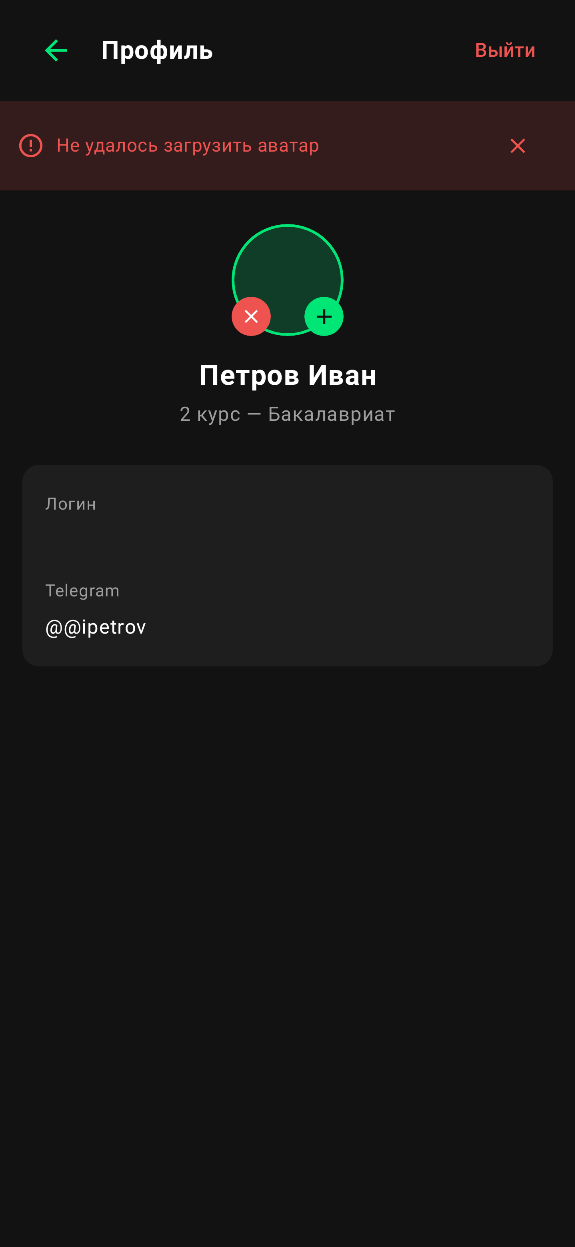
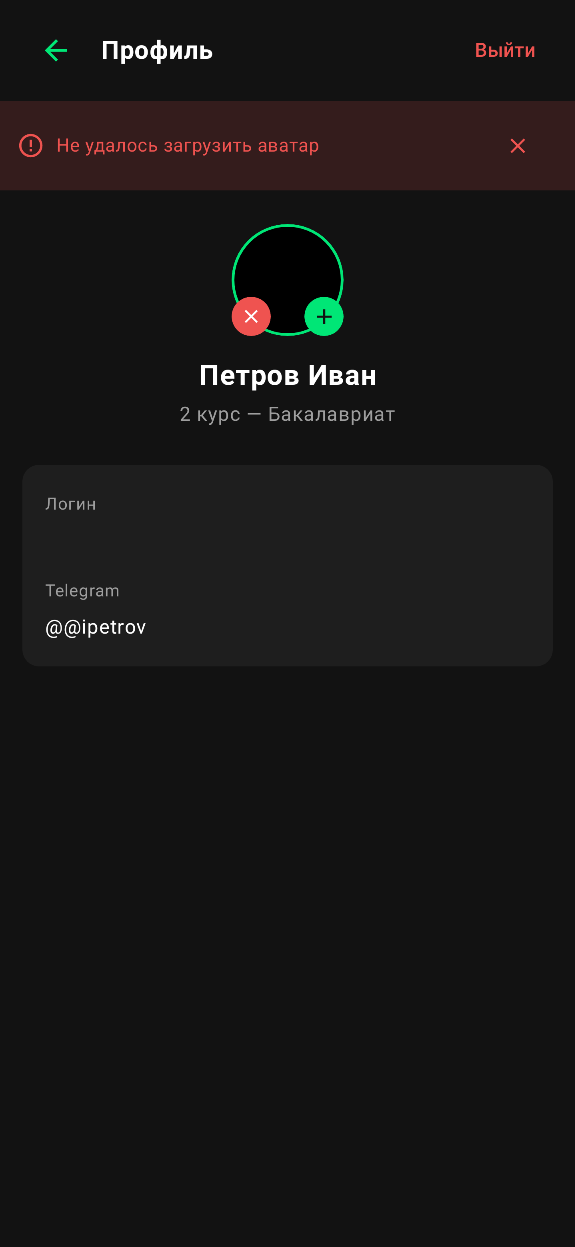
finish refactor

Changed region(s): [[0.3843, 0.1828, 0.5913, 0.2743]]

diff --git a/androidApp/src/test/java/io/github/kroune/cumobile/TestApplication.kt b/androidApp/src/test/java/io/github/kroune/cumobile/TestApplication.kt
@@ -1,5 +1,24 @@
 package io.github.kroune.cumobile
 
 import android.app.Application
+import coil3.ColorImage
+import coil3.ImageLoader
+import coil3.SingletonImageLoader
+import coil3.test.FakeImageLoaderEngine
 
-class TestApplication : Application()
+class TestApplication : Application() {
+    @OptIn(coil3.annotation.ExperimentalCoilApi::class)
+    override fun onCreate() {
+        super.onCreate()
+        val engine = FakeImageLoaderEngine
+            .Builder()
+            .default(ColorImage())
+            .build()
+        SingletonImageLoader.setSafe {
+            ImageLoader
+                .Builder(this)
+                .components { add(engine) }
+                .build()
+        }
+    }
+}

diff --git a/shared/src/commonMain/kotlin/io/github/kroune/cumobile/presentation/files/ui/FilesScreenPreviews.kt b/shared/src/commonMain/kotlin/io/github/kroune/cumobile/presentation/files/ui/FilesScreenPreviews.kt
@@ -13,12 +13,13 @@ private fun previewFile(
     path: String,
     sizeBytes: Long,
     lastModifiedMillis: Long,
-) = DownloadedFileInfo(
-    name = name,
-    path = path,
-    sizeBytes = sizeBytes,
-    lastModifiedMillis = lastModifiedMillis,
-).toDomain().toUi()
+) =
+    DownloadedFileInfo(
+        name = name,
+        path = path,
+        sizeBytes = sizeBytes,
+        lastModifiedMillis = lastModifiedMillis,
+    ).toDomain().toUi()
 
 private val previewFilesState = FilesComponent.State(
     files = listOf(
